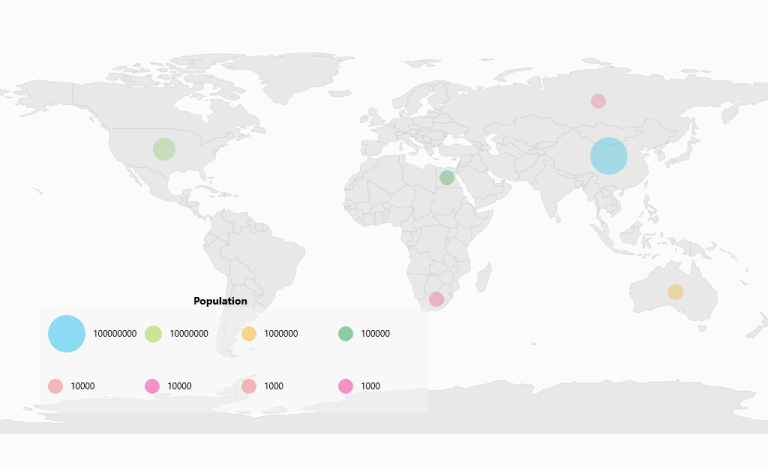
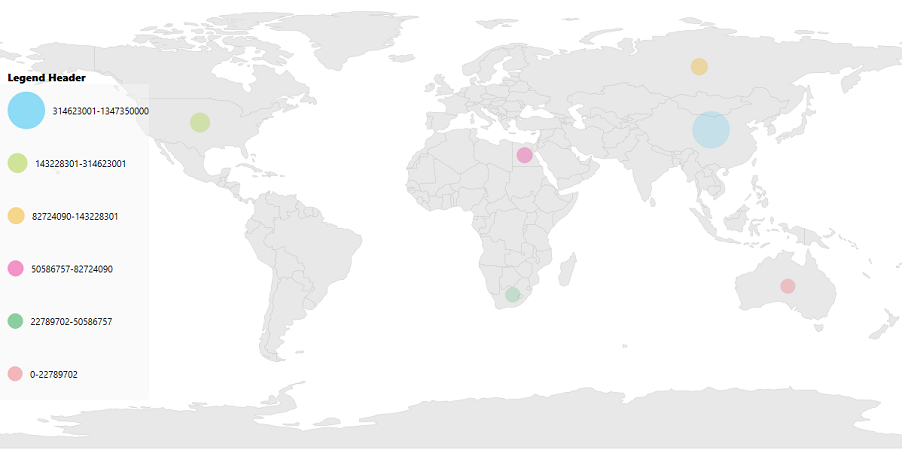
WPF-56165-Modified the UG documentation image and code snippet

diff --git a/wpf/Maps/Legend.md b/wpf/Maps/Legend.md
@@ -65,41 +65,41 @@ Layer shape type legends can be different shapes for the legend. The shapes can 
 
 ### Arranging the Legends 
 
-Legends are arranged in matrix format. The number of columns in the arranging matrix can be set by setting the LegendColumnSplit property of the int type. 
+Legends are arranged in matrix format. The number of columns in the arranging matrix can be set by setting the [`LegendColumnSplit`](https://help.syncfusion.com/cr/wpf/Syncfusion.UI.Xaml.Maps.ShapeFileLayer.html#Syncfusion_UI_Xaml_Maps_ShapeFileLayer_LegendColumnSplit) property of the int type. 
 
 {% tabs %}
 
 {% highlight xaml %}
 
-      <syncfusion:SfMap>
-            <syncfusion:SfMap.Layers>
-                <syncfusion:ShapeFileLayer 
+    <syncfusion:SfMap>
+        <syncfusion:SfMap.Layers>
+            <syncfusion:ShapeFileLayer 
                     LegendType="Layers" LegendHeader="LegendHeader"
                     LegendColumnSplit="2" LegendPositionX="10"
-                    LegendPositionY="200" LegendVisibility="Visible"
+                    LegendPositionY="300" LegendVisibility="Visible"
                     LegendIcon="Rectangle" ItemsSource="{Binding Countries}" ShapeIDPath="Name"  
                     ShapeIDTableField="NAME" Uri="DataMarkers.ShapeFiles.world1.shp">
-                    <syncfusion:ShapeFileLayer.ShapeSettings>
-                        <syncfusion:ShapeSetting ShapeColorValuePath="Population" ShapeFill="#E5E5E5" 
+                <syncfusion:ShapeFileLayer.ShapeSettings>
+                    <syncfusion:ShapeSetting ShapeColorValuePath="Population" ShapeFill="#E5E5E5" 
                                                  ShapeStroke="#C1C1C1" ShapeStrokeThickness="0.5" 
                                                  ShapeValuePath="Population" >
-                            <syncfusion:ShapeSetting.FillSetting>
-                                <syncfusion:ShapeFillSetting AutoFillColors="False">
-                                    <syncfusion:ShapeFillSetting.ColorMappings>
-                                        <syncfusion:RangeColorMapping Color="#7F20BCEE" To="1347350000" From="314623001"/>
-                                        <syncfusion:RangeColorMapping Color="#7FA7CE38" To="314623001" From="143228301"/>
-                                        <syncfusion:RangeColorMapping Color="#7FF1B21A" To="143228301" From="82724090"/>
-                                        <syncfusion:RangeColorMapping Color="#7F1DA249" To="50586757" From="22789702"/>
-                                        <syncfusion:RangeColorMapping Color="#7FEB737C" To="22789702" From="0"/>
-                                        <syncfusion:RangeColorMapping Color="#7FED2D95" To="82724090" From="50586757"/>
-                                    </syncfusion:ShapeFillSetting.ColorMappings>
-                                </syncfusion:ShapeFillSetting>
-                            </syncfusion:ShapeSetting.FillSetting>
-                        </syncfusion:ShapeSetting>
-                    </syncfusion:ShapeFileLayer.ShapeSettings>
-                </syncfusion:ShapeFileLayer>
-            </syncfusion:SfMap.Layers>
-        </syncfusion:SfMap>
+                        <syncfusion:ShapeSetting.FillSetting>
+                            <syncfusion:ShapeFillSetting AutoFillColors="False">
+                                <syncfusion:ShapeFillSetting.ColorMappings>
+                                    <syncfusion:RangeColorMapping Color="#7F20BCEE" To="1347350000" From="314623001"/>
+                                    <syncfusion:RangeColorMapping Color="#7FA7CE38" To="314623001" From="143228301"/>
+                                    <syncfusion:RangeColorMapping Color="#7FF1B21A" To="143228301" From="82724090"/>
+                                    <syncfusion:RangeColorMapping Color="#7F1DA249" To="50586757" From="22789702"/>
+                                    <syncfusion:RangeColorMapping Color="#7FEB737C" To="22789702" From="0"/>
+                                    <syncfusion:RangeColorMapping Color="#7FED2D95" To="82724090" From="50586757"/>
+                                </syncfusion:ShapeFillSetting.ColorMappings>
+                            </syncfusion:ShapeFillSetting>
+                        </syncfusion:ShapeSetting.FillSetting>
+                    </syncfusion:ShapeSetting>
+                </syncfusion:ShapeFileLayer.ShapeSettings>
+            </syncfusion:ShapeFileLayer>
+        </syncfusion:SfMap.Layers>
+    </syncfusion:SfMap>
 
 {% endhighlight %}
 
@@ -156,31 +156,37 @@ Legends are arranged in matrix format. The number of columns in the arranging ma
 
 {% highlight xaml %}
 
-       <syncfusion:SfMap>
-            <syncfusion:SfMap.Layers>
-                <syncfusion:ShapeFileLayer 
-                    LegendType="Bubbles" LegendHeader="LegendHeader"
-                    LegendColumnSplit="2" LegendPositionX="10"
-                    LegendPositionY="200" LegendVisibility="Visible"
+     <syncfusion:SfMap>
+        <syncfusion:SfMap.Layers>
+            <syncfusion:ShapeFileLayer 
+                    LegendType="Bubbles" LegendHeader="Legend Header"
+                    LegendColumnSplit="1" LegendPositionX="5"
+                    LegendPositionY="100" LegendVisibility="Visible"
                     LegendIcon="Rectangle" ItemsSource="{Binding Countries}" ShapeIDPath="Name"  
                     ShapeIDTableField="NAME" Uri="DataMarkers.ShapeFiles.world1.shp">
-                    <syncfusion:ShapeFileLayer.BubbleMarkerSetting>
-                        <syncfusion:BubbleMarkerSetting AutoFillColor="False" MaxSize="50" 
+                <syncfusion:ShapeFileLayer.BubbleMarkerSetting>
+                    <syncfusion:BubbleMarkerSetting AutoFillColor="False" MaxSize="50" 
                                                         MinSize="20" StrokeThickness="0" 
-                                                        ValuePath="Population">
-                            <syncfusion:BubbleMarkerSetting.ColorMappings>
-                                <syncfusion:RangeColorMapping Color="#7F20BCEE" To="1347350000" From="314623001"/>
-                                <syncfusion:RangeColorMapping Color="#7FA7CE38" To="314623001" From="143228301"/>
-                                <syncfusion:RangeColorMapping Color="#7FF1B21A" To="143228301" From="82724090"/>
-                                <syncfusion:RangeColorMapping Color="#7F1DA249" To="50586757" From="22789702"/>
-                                <syncfusion:RangeColorMapping Color="#7FEB737C" To="22789702" From="0"/>
-                                <syncfusion:RangeColorMapping Color="#7FED2D95" To="82724090" From="50586757"/>
-                            </syncfusion:BubbleMarkerSetting.ColorMappings>
-                        </syncfusion:BubbleMarkerSetting>
-                    </syncfusion:ShapeFileLayer.BubbleMarkerSetting>
-                </syncfusion:ShapeFileLayer>
-            </syncfusion:SfMap.Layers>
-        </syncfusion:SfMap>
+                                                ColorValuePath="Population"  ValuePath="Population">
+                        <syncfusion:BubbleMarkerSetting.ColorMappings>
+                            <syncfusion:RangeColorMapping Color="#7F20BCEE" To="1347350000" From="314623001"/>
+                            <syncfusion:RangeColorMapping Color="#7FA7CE38" To="314623001" From="143228301"/>
+                            <syncfusion:RangeColorMapping Color="#7FF1B21A" To="143228301" From="82724090"/>
+                            <syncfusion:RangeColorMapping Color="#7FED2D95" To="82724090" From="50586757"/>
+                            <syncfusion:RangeColorMapping Color="#7F1DA249" To="50586757" From="22789702"/>
+                            <syncfusion:RangeColorMapping Color="#7FEB737C" To="22789702" From="0"/>
+                          
+                        </syncfusion:BubbleMarkerSetting.ColorMappings>
+                    </syncfusion:BubbleMarkerSetting>
+                </syncfusion:ShapeFileLayer.BubbleMarkerSetting>
+                <syncfusion:ShapeFileLayer.ItemsTemplate>
+                    <DataTemplate>
+                            <TextBlock Text=""/>
+                    </DataTemplate>
+                </syncfusion:ShapeFileLayer.ItemsTemplate>
+            </syncfusion:ShapeFileLayer>
+        </syncfusion:SfMap.Layers>
+    </syncfusion:SfMap>
 
 {% endhighlight %}
 
